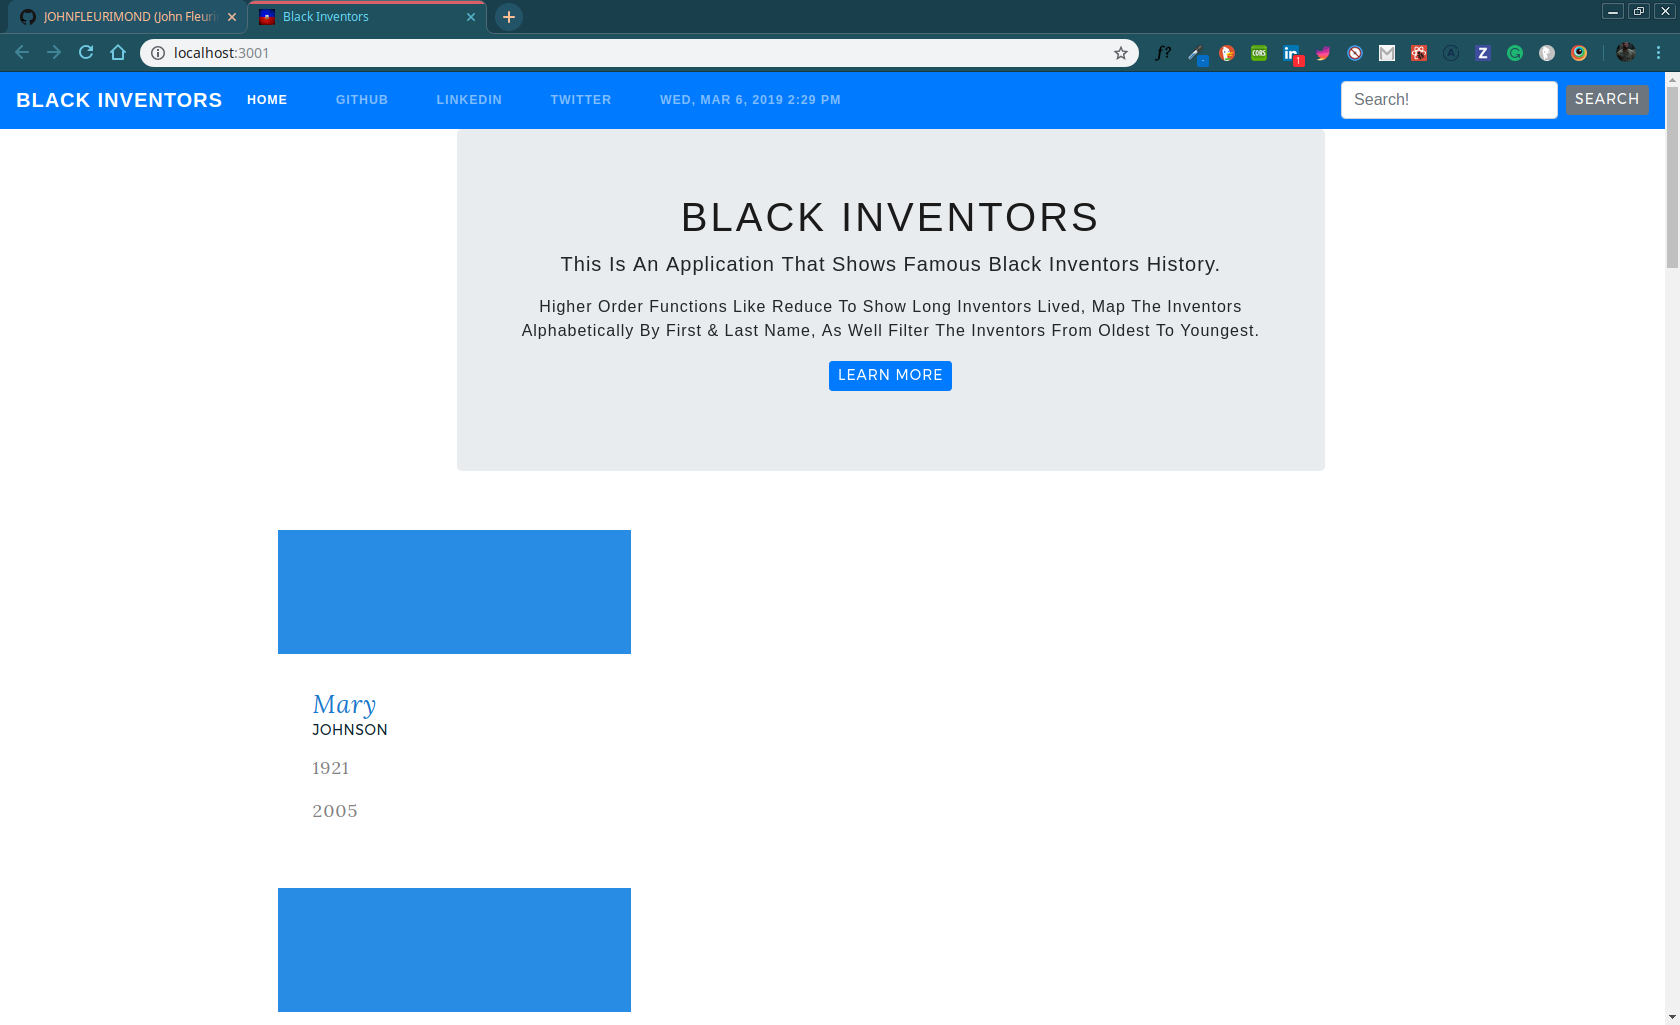
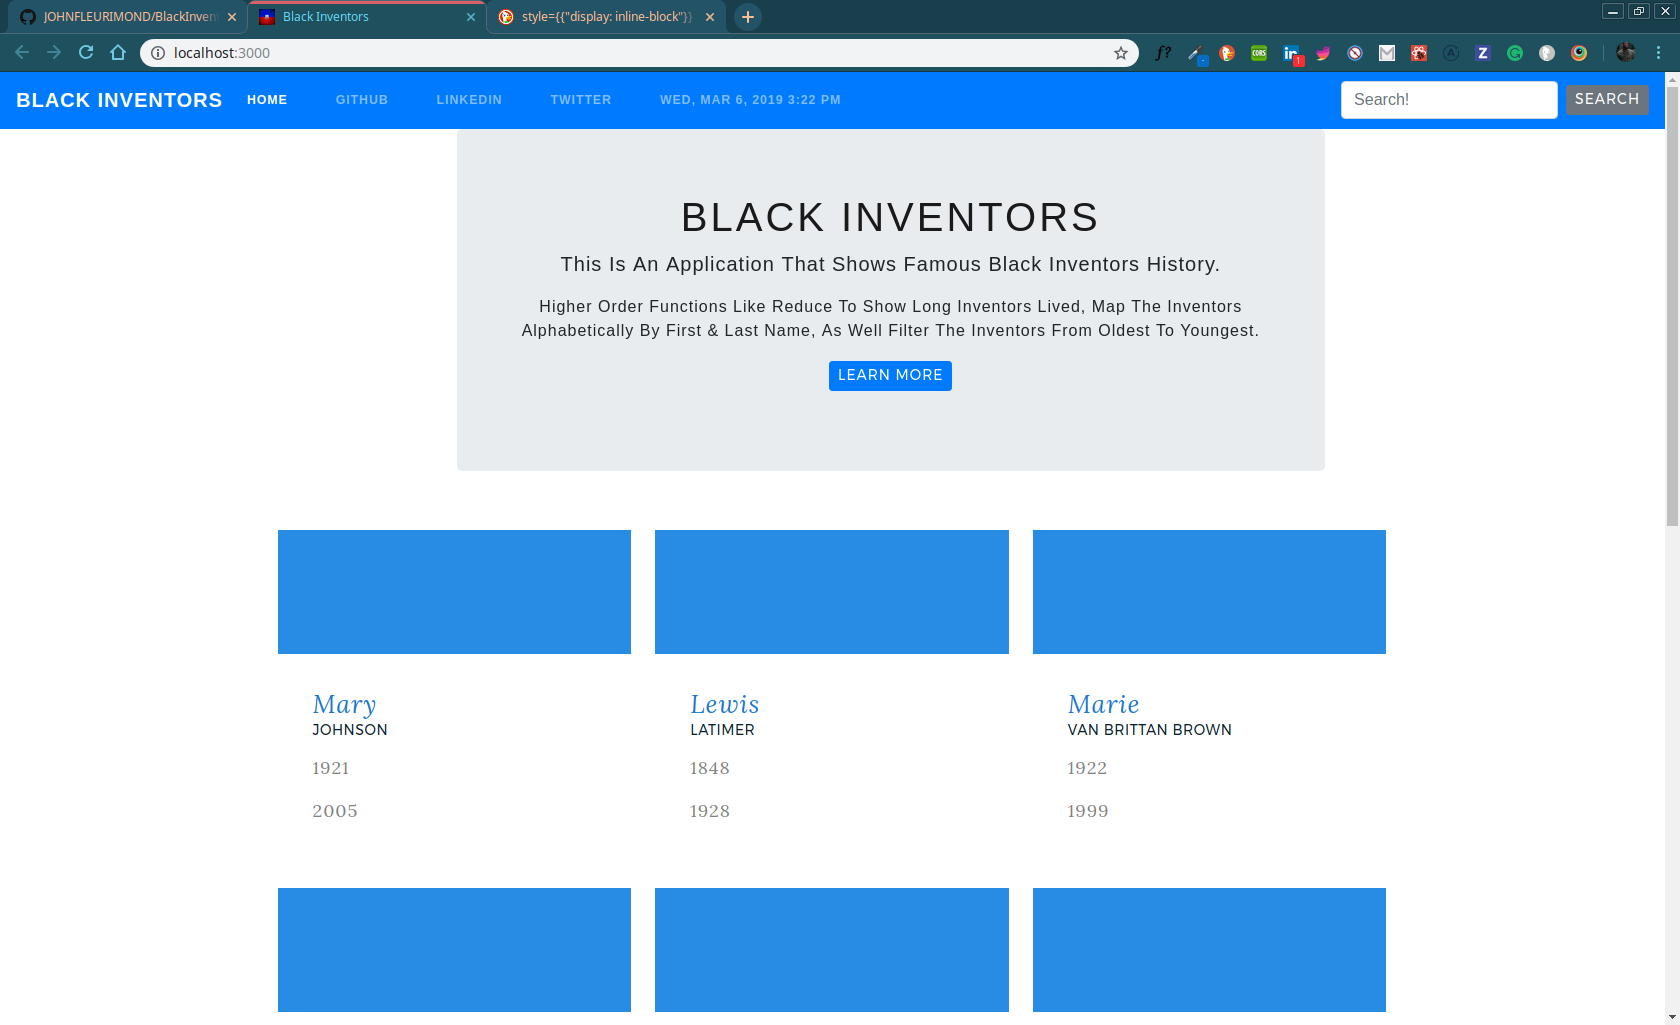
Have to set-up modals.

diff --git a/src/component/Inventors.js b/src/component/Inventors.js
@@ -15,7 +15,7 @@ class Inventors extends Component {
       <Container>
         {Data.map((dataDetail, index) => {
           return (
-            <a href='/' className='cd m-t500 g--4 g--4--sl'>
+            <a href='/' style={{display : 'inline-block'}} className='cd m-t500 g--4 g--4--sl'>
               <div className='cd-ic' style={{ backgroundImage: "url()" }} />
               <div className='cd-c'>
                 <div className='cd-t'>{dataDetail.first}</div>
